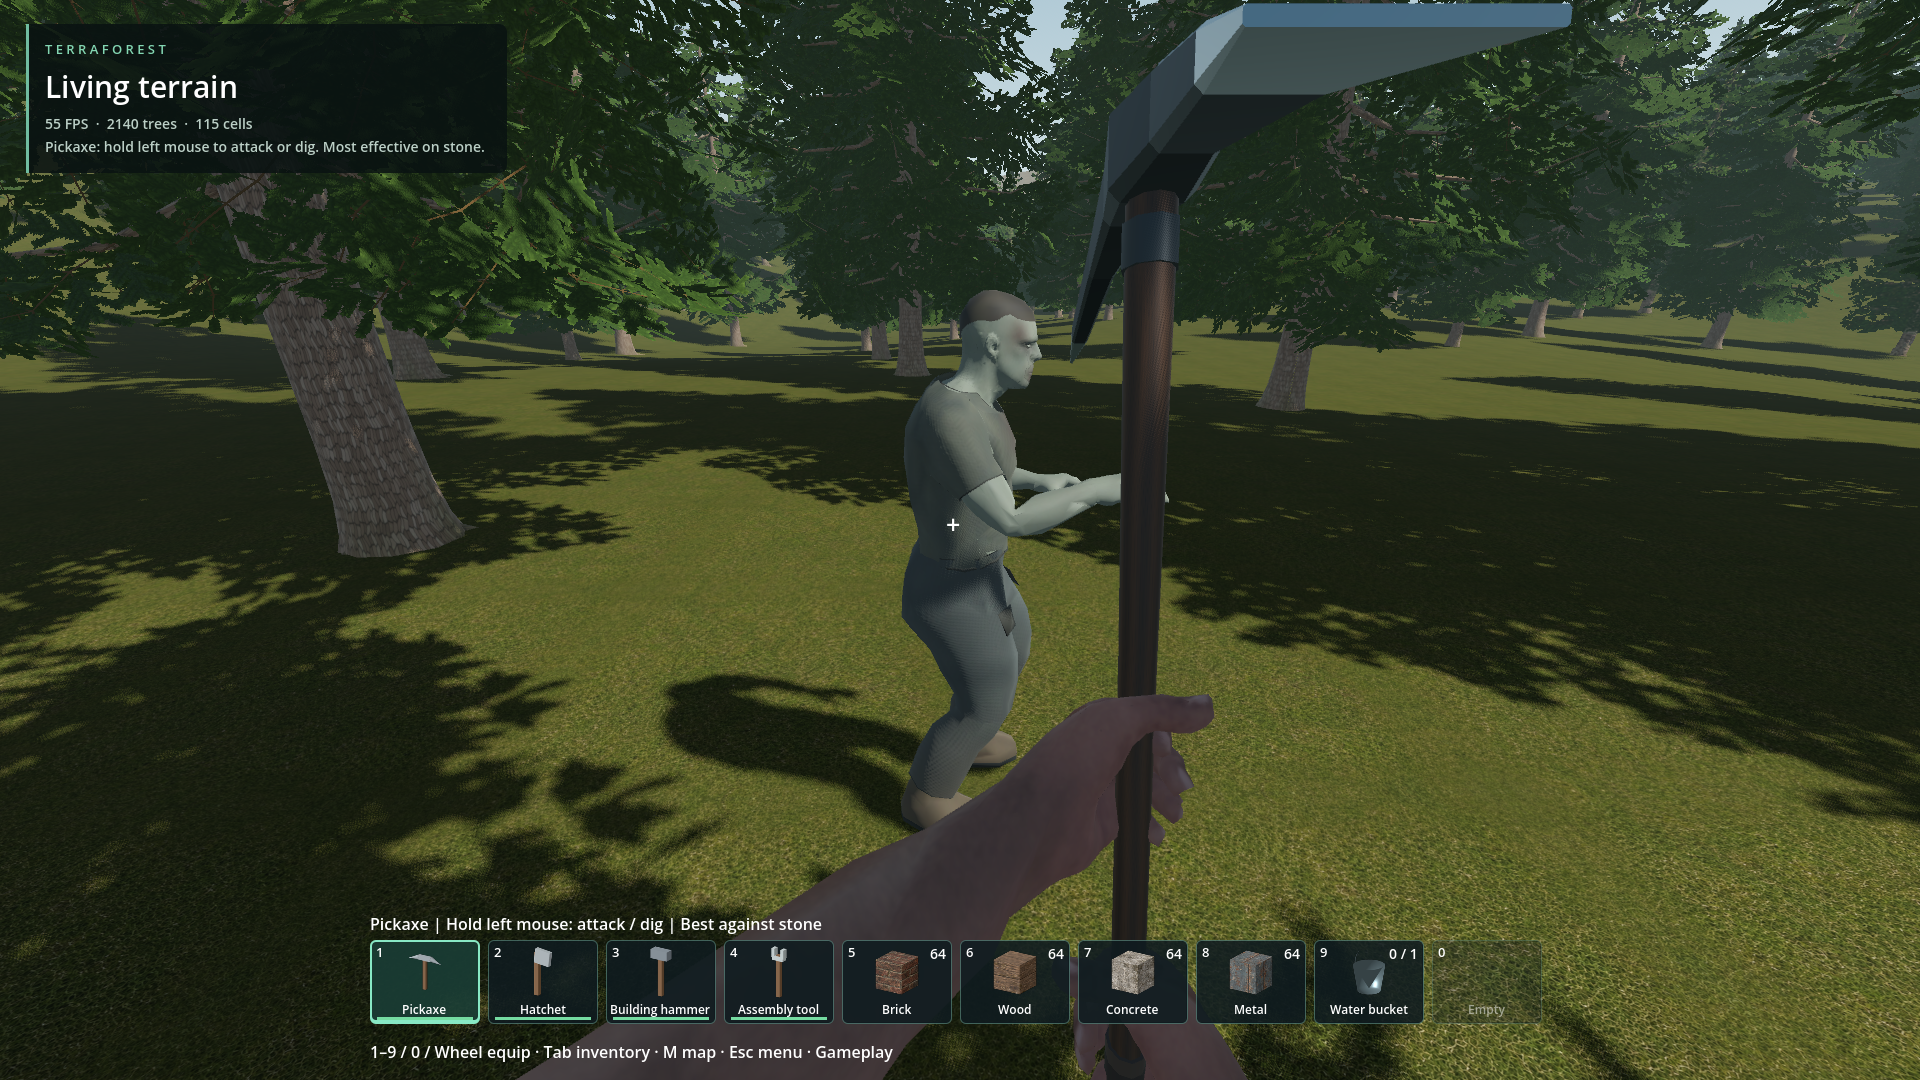
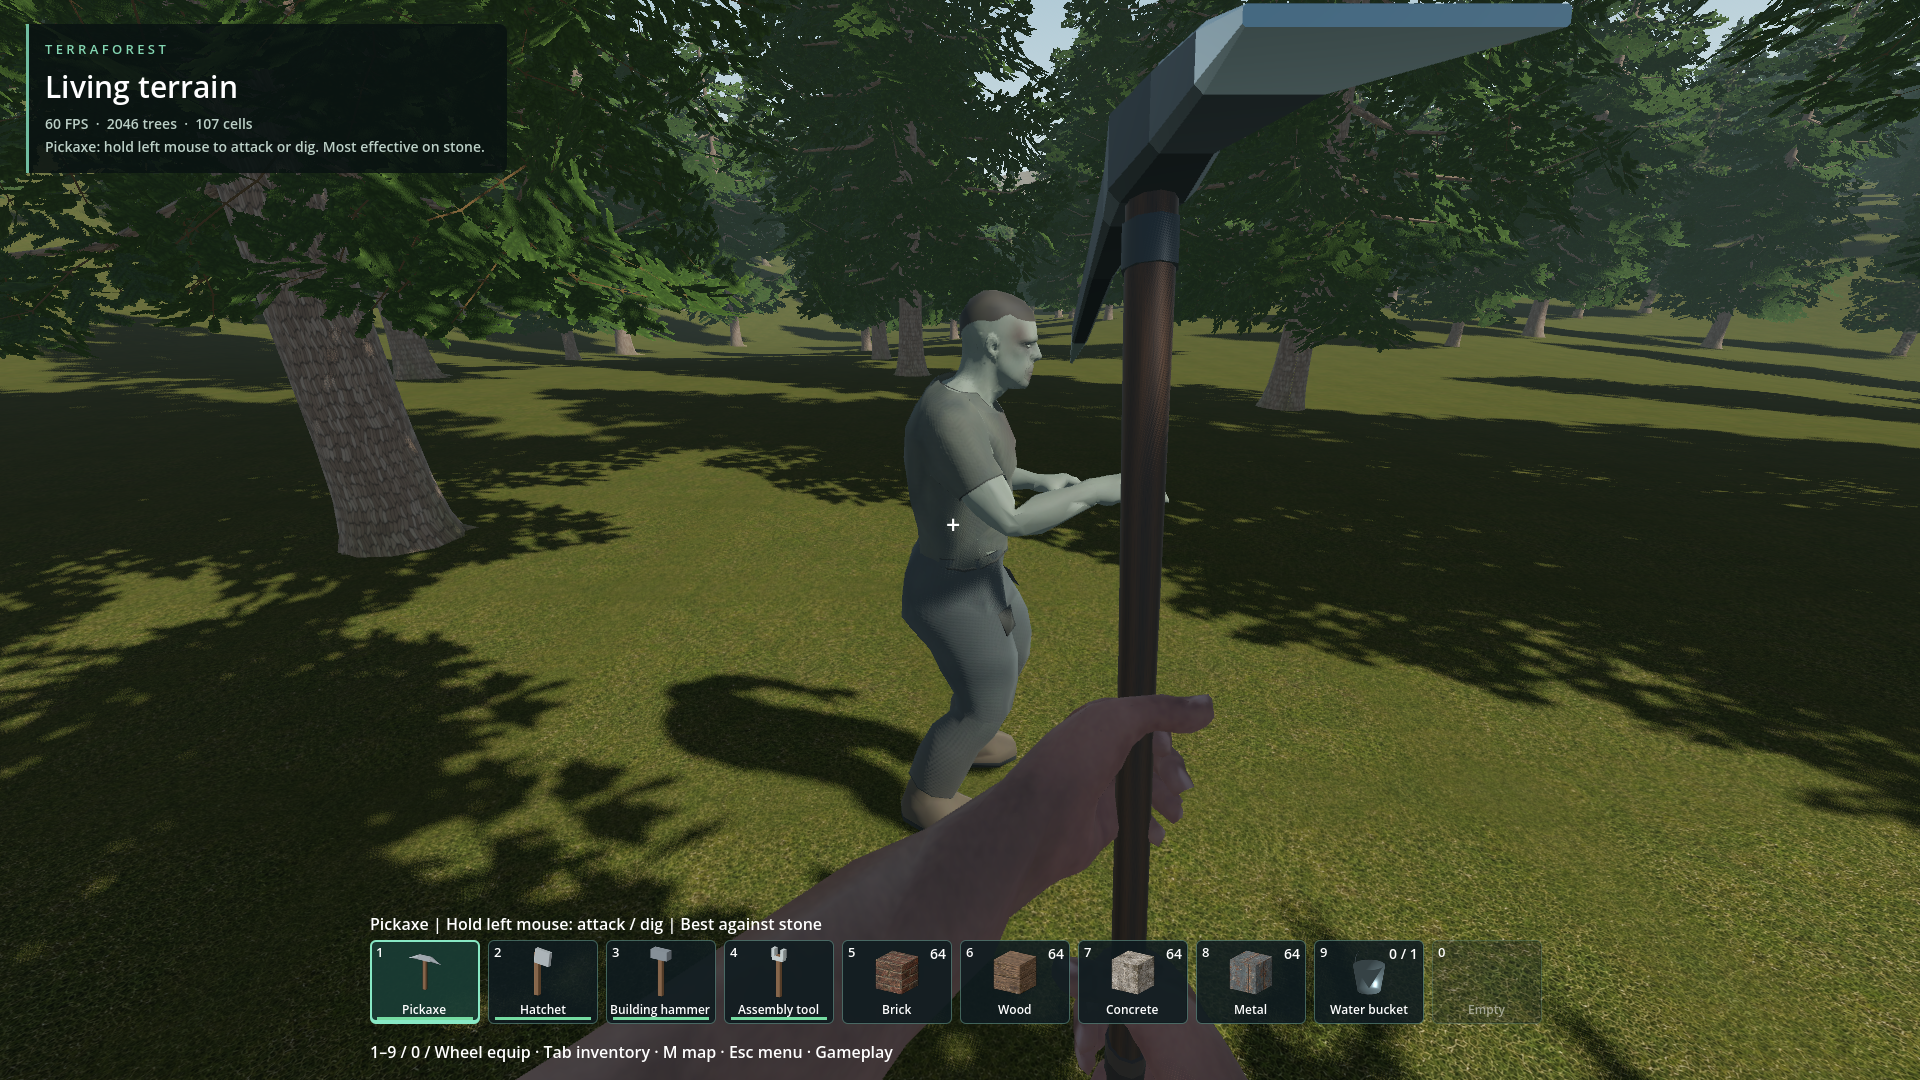
Record character integration validation against concurrent terrain update

diff --git a/TerraForest/docs/evidence/character_integration/README.md b/TerraForest/docs/evidence/character_integration/README.md
@@ -5,6 +5,11 @@ the separate `codex/character-integration` worktree while terrain work continued
 in the original checkout. No terrain generator, native movement, persistent actor
 schema or existing save was rewritten by the character change.
 
+The integrated world was repeated after rebasing onto concurrent terrain commit
+`87390a2c`. The final exact implementation commit is `47313035`; all 18 world
+checks pass again. `final_world_run.json` retains revision, test and native binary
+hashes. The final forest screenshot was re-inspected.
+
 ## Passing scoped checks
 
 Godot 4.7.2 Steam, Windows x86-64; rendered checks use Forward+ on the RTX 4050,
